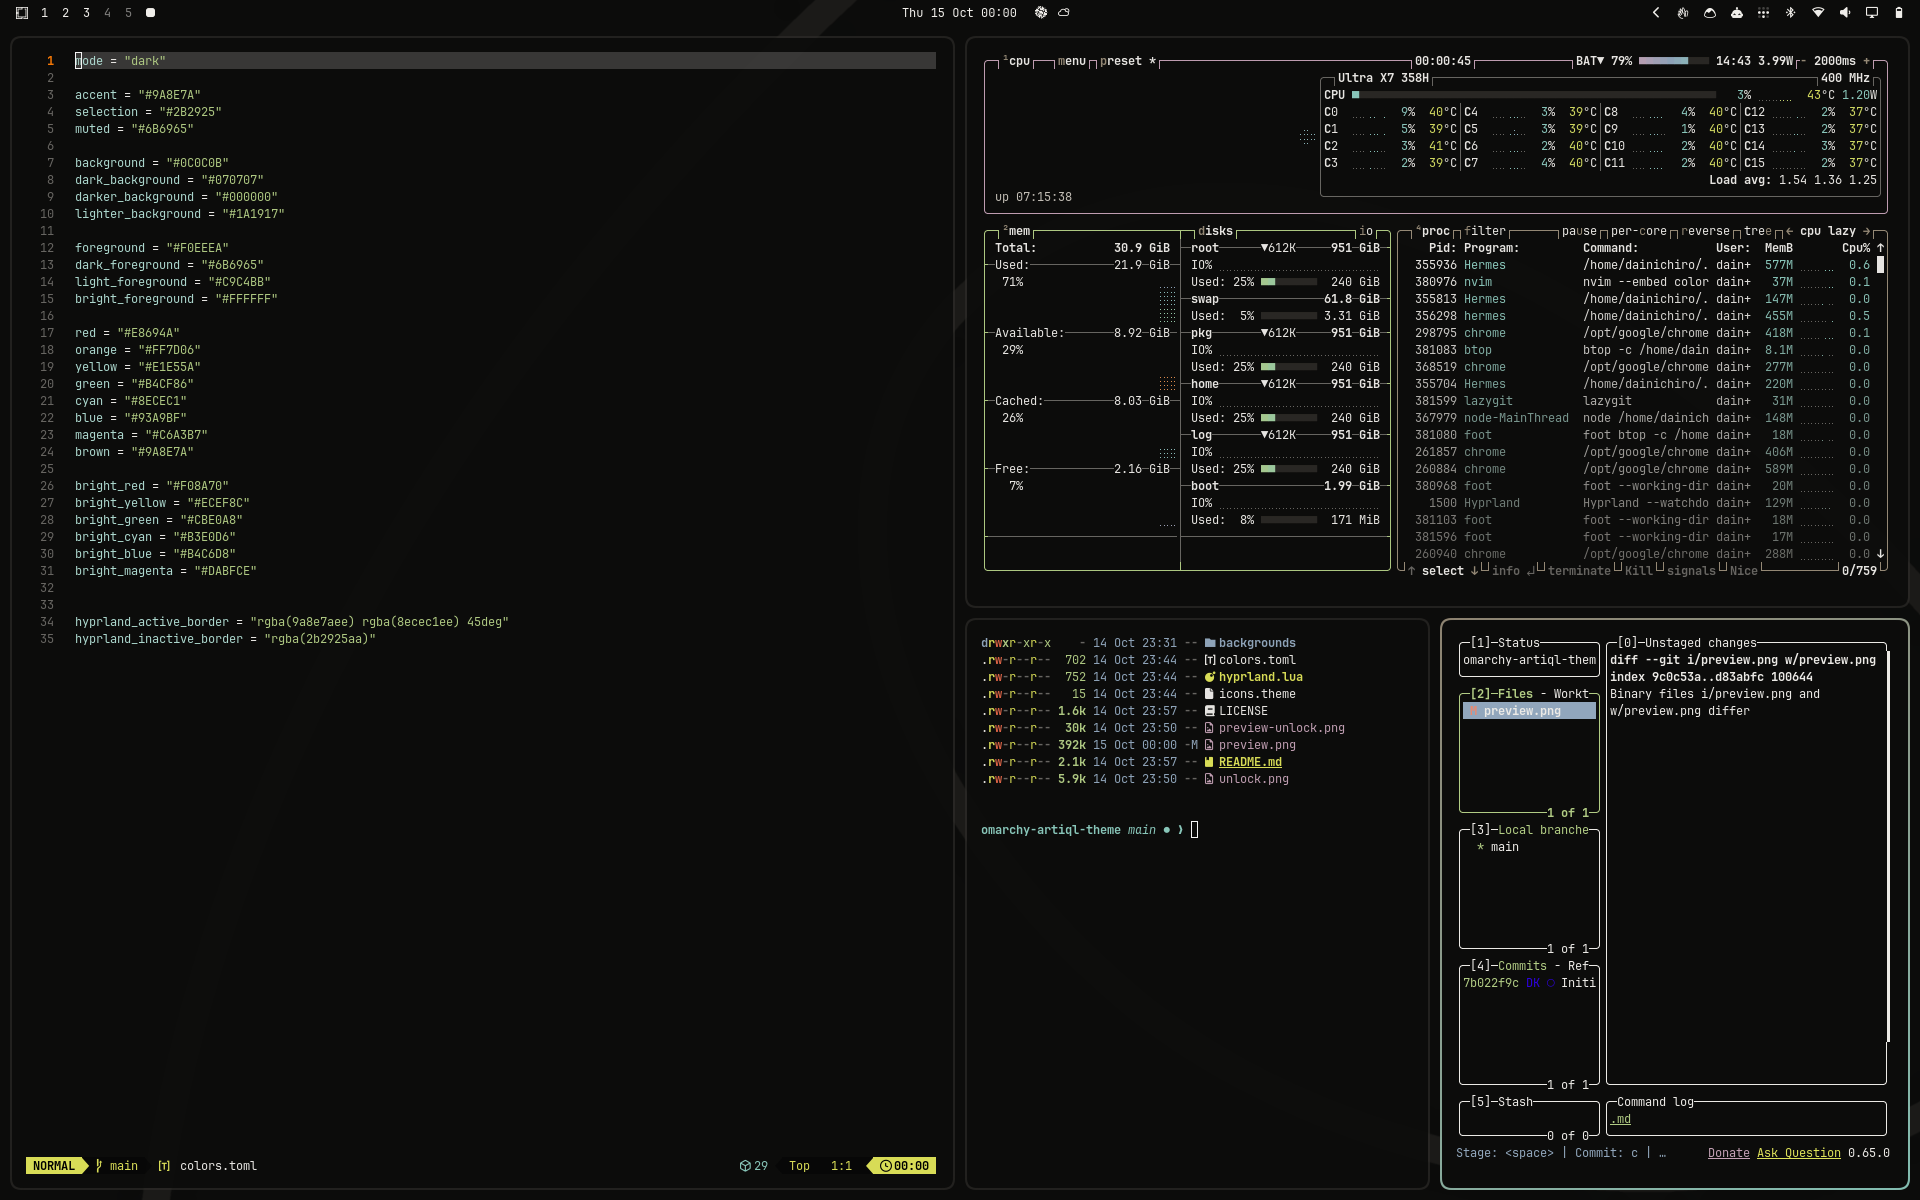
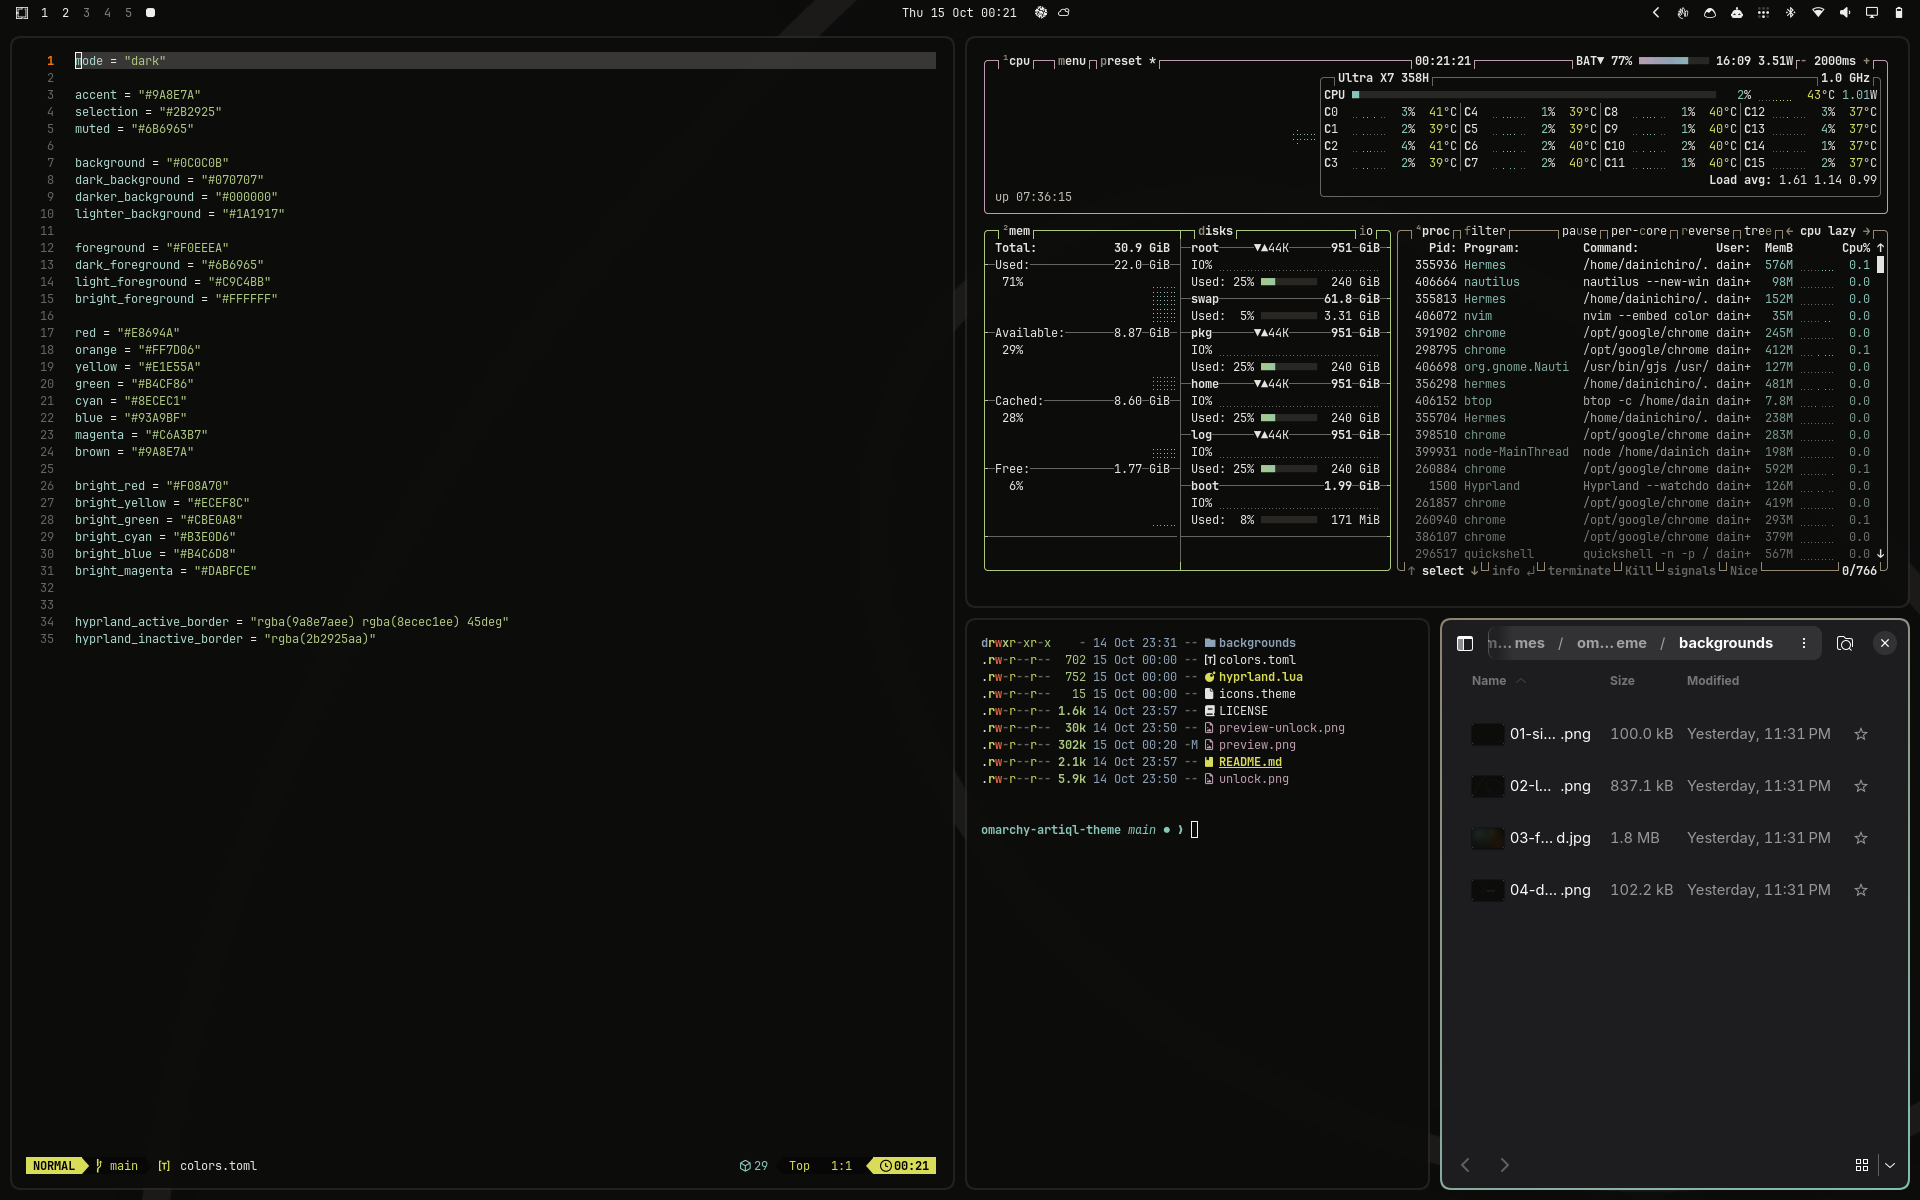
Files in preview, clone-and-link install, license holder

diff --git a/README.md b/README.md
@@ -6,30 +6,36 @@ Ink-black, quiet and warm. A dark theme for [Omarchy](https://omarchy.org).
 
 ## Install
 
+Clone and link it, so the whole theme loads — including the rounded window
+corners in [`hyprland.lua`](hyprland.lua):
+
+```bash
+git clone https://github.com/dainichiro/omarchy-artiql-theme.git ~/.local/share/omarchy-themes/artiql
+ln -sT ~/.local/share/omarchy-themes/artiql ~/.config/omarchy/themes/artiql
+omarchy theme set artiql
+```
+
+Update later with `git -C ~/.local/share/omarchy-themes/artiql pull`.
+
+<details>
+<summary>Colours only</summary>
+
 ```bash
 omarchy theme install https://github.com/dainichiro/omarchy-artiql-theme
 ```
 
+Omarchy skips every `.lua` in a theme installed this way, so windows keep
+their square corners. Everything else — colours, backgrounds, unlock screen —
+is the same.
+
+</details>
+
 A light counterpart is available as
 [Artiql Light](https://github.com/dainichiro/omarchy-artiql-light-theme).
 
-### Rounded corners
+### Window corners
 
-The theme is designed with softly rounded windows. Omarchy does not load Lua
-from themes installed with `omarchy theme install`, so the bundled
-[`hyprland.lua`](hyprland.lua) is skipped. To get the intended corners, add this
-to `~/.config/hypr/looknfeel.lua`:
-
-```lua
-hl.config({
-  decoration = {
-    rounding = 8,
-    rounding_power = 3,
-  },
-})
-```
-
-A restrained radius keeps edges crisp; `rounding_power = 3` eases the straight
+`rounding = 8` keeps edges crisp; `rounding_power = 3` eases each straight
 edge into the curve instead of meeting a circular arc.
 
 ### Boot unlock screen
